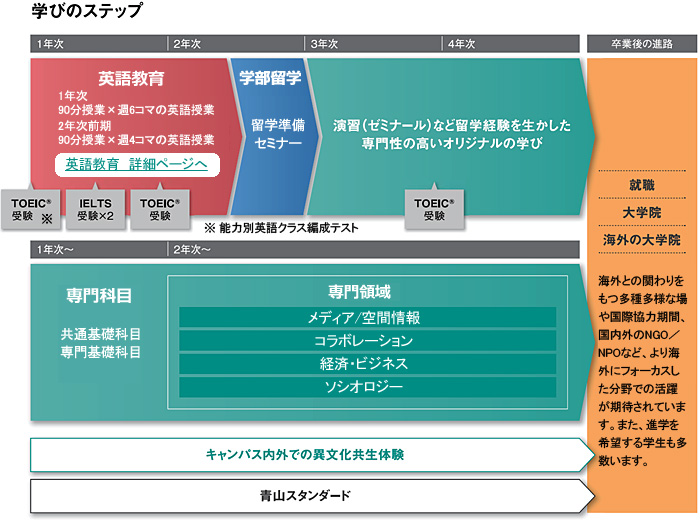
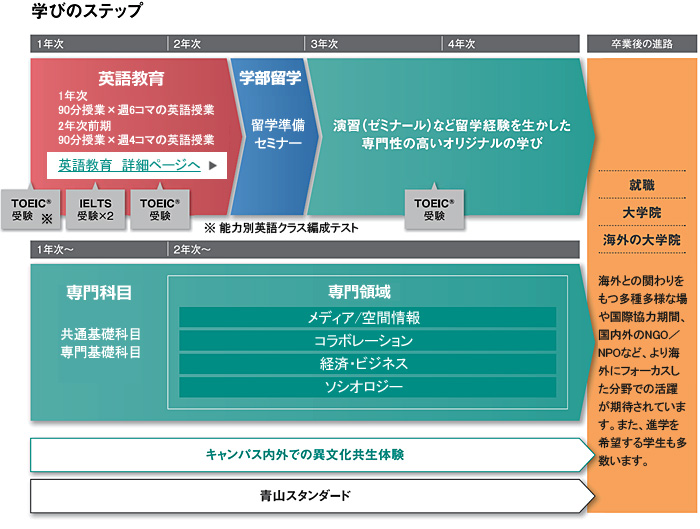
カリキュラム　フロー図更新

Changed region(s): [[0.06, 0.2722, 0.33, 0.3629], [0.09, 0.5142, 0.21, 0.5747]]

diff --git a/_layouts/page_curriculum_index.html b/_layouts/page_curriculum_index.html
@@ -60,9 +60,9 @@ layout: default
 
             <p><img src="{{ '/assets/images/v1/2019/curriculum_step.jpg' | relative_url }}" usemap="#ImageMap" alt="カリキュラム　フロー図"></p>
 <map name="ImageMap">
-  <area shape="rect" coords="32,58,229,154" href="{{ '/curriculum/english' | relative_url }}" alt="" />
+  <area shape="rect" coords="33,58,232,183" href="{{ '/curriculum/english' | relative_url }}" alt="" />
 </map>
-
+<p><a href="{{ '/assets/images/v1/2019/curriculum_step_large.jpg' | relative_url }}" target="_blank">「学びのステップ」を大きな画像で確認する</a></p>
  <h4>４つの専門領域が可能にしたオーダーメイドの学び</h4>
 <p>地球社会共生学部は社会科学分野を基礎とするグローバル学部です。カリキュラムは、政治学、経済学、経営学、メディア、空間情報学、社会学という社会科学系の学問分野から成っています。自分の興味や目指す進路に応じて、学びたい授業を選べるオーダーメイド型を採用し、各専門領域の科目を組み合わせることで、学生オリジナルのカリキュラムが完成します。</p>
 

diff --git a/assets/main.scss b/assets/main.scss
@@ -418,6 +418,9 @@
   text-decoration: underline !important;
 }
 
+#main .columns p a:hover {
+  text-decoration: underline !important; }
+
 /*----- TEACHER/TEACHERS -----*/
 
 #main ul.list-teacher li .text ul li a[target*="_blank"]:after {
@@ -440,7 +443,6 @@
 .content-section .row .columns ul.list-links li {
   height: 5em !important;
 }
-
 
 /*----- TEACHER/PUBLICATIONS -----*/
 #main ul.oneline li a[target*="_blank"]:after {
@@ -551,7 +553,6 @@
 
 #main #agreement ul.list-grid li p strong a:hover {
   text-decoration: underline !important; }
-
 
 /*----- GENERAL/SITEMAP -----*/
 ul.list-sitemap li a.pop:after,
